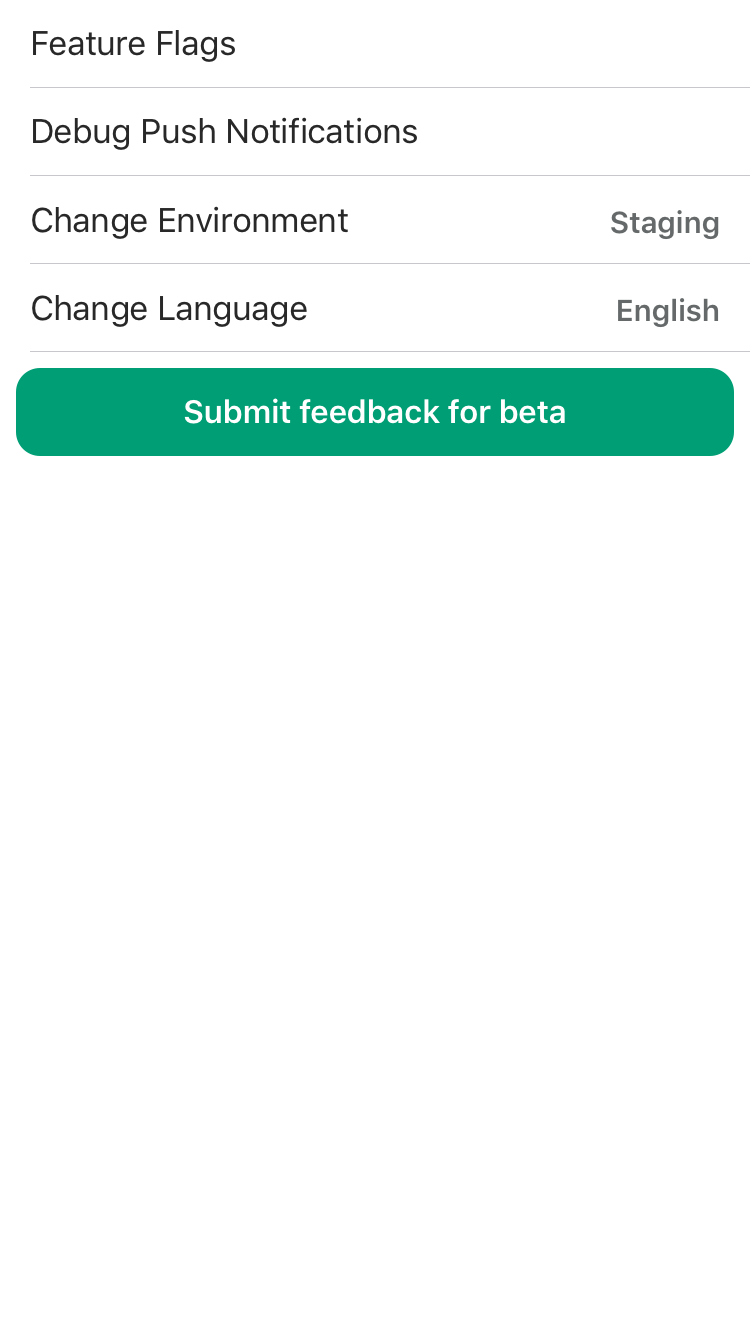
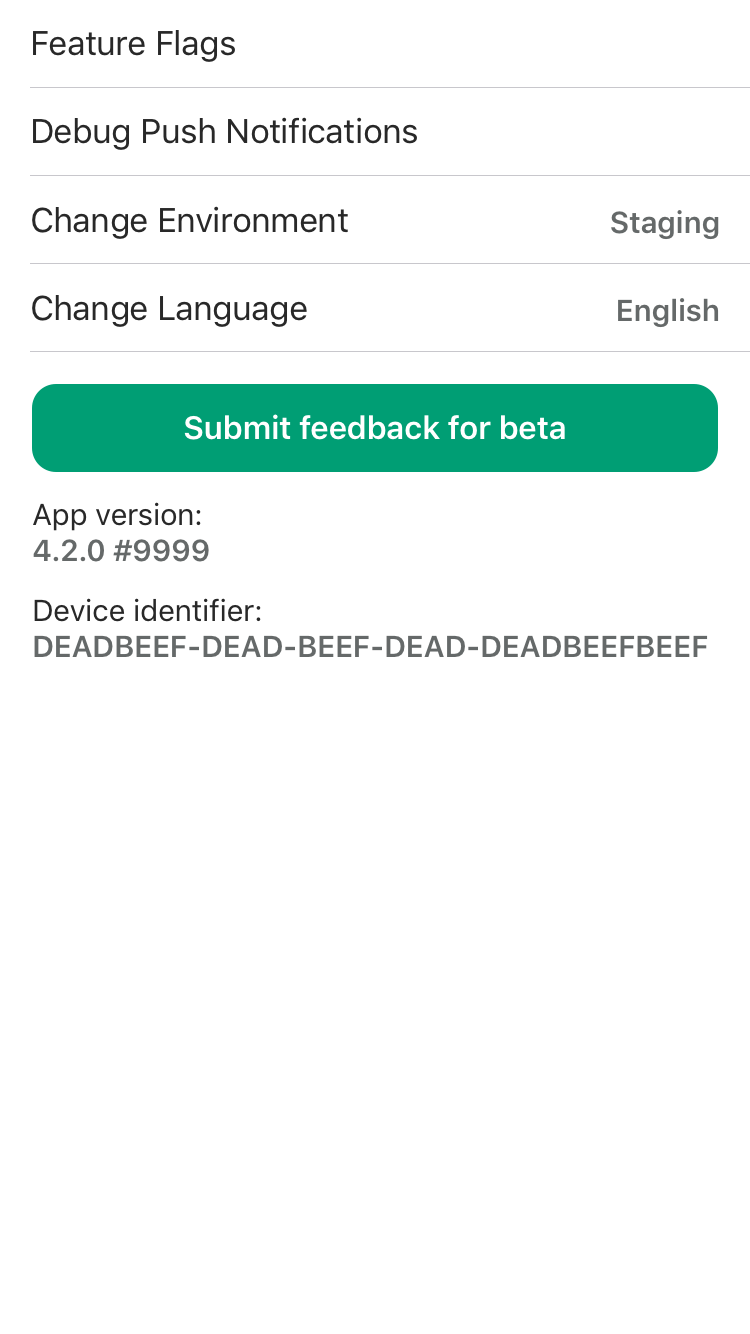
[NT-736] Debug tools deviceIdentifier and appVersion (#1049)

Changed region(s): [[0.0, 0.2766, 0.9813, 0.4918]]

diff --git a/Kickstarter-iOS/Views/BetaToolsFooterView.swift b/Kickstarter-iOS/Views/BetaToolsFooterView.swift
@@ -1,0 +1,167 @@
+import Library
+import Prelude
+import UIKit
+
+protocol BetaToolsFooterViewDelegate: AnyObject {
+  func betaToolsFooterViewDelegateDidTapFeedbackButton()
+}
+
+final class BetaToolsFooterView: UIView {
+  // MARK: - Properties
+
+  private let appVersionDetailLabel: UILabel = { UILabel(frame: .zero) }()
+  private let appVersionStackView: UIStackView = { UIStackView(frame: .zero) }()
+  private let appVersionTitleLabel: UILabel = { UILabel(frame: .zero) }()
+  private let betaFeedbackButton = UIButton(type: .custom)
+  private let deviceIdentifierDetailLabel: UILabel = { UILabel(frame: .zero) }()
+  private let deviceIdentifierStackView: UIStackView = { UIStackView(frame: .zero) }()
+  private let deviceIdentifierTitleLabel: UILabel = { UILabel(frame: .zero) }()
+  private let rootStackView: UIStackView = { UIStackView(frame: .zero) }()
+
+  internal weak var delegate: BetaToolsFooterViewDelegate?
+
+  override init(frame: CGRect) {
+    super.init(frame: frame)
+
+    self.configureViews()
+    self.bindStyles()
+    self.setupConstraints()
+
+    self.betaFeedbackButton.addTarget(
+      self, action: #selector(self.betaFeedbackButtonTapped),
+      for: .touchUpInside
+    )
+  }
+
+  required init?(coder _: NSCoder) {
+    fatalError("init(coder:) has not been implemented")
+  }
+
+  // MARK: - Configuration
+
+  private func configureViews() {
+    _ = (self.rootStackView, self)
+      |> ksr_addSubviewToParent()
+      |> ksr_constrainViewToMarginsInParent()
+
+    _ = ([self.appVersionTitleLabel, self.appVersionDetailLabel], self.appVersionStackView)
+      |> ksr_addArrangedSubviewsToStackView()
+
+    _ = ([self.deviceIdentifierTitleLabel, self.deviceIdentifierDetailLabel], self.deviceIdentifierStackView)
+      |> ksr_addArrangedSubviewsToStackView()
+
+    _ = (
+      [self.betaFeedbackButton, self.appVersionStackView, self.deviceIdentifierStackView],
+      self.rootStackView
+    )
+      |> ksr_addArrangedSubviewsToStackView()
+  }
+
+  private func setupConstraints() {
+    NSLayoutConstraint.activate([
+      self.betaFeedbackButton.heightAnchor
+        .constraint(greaterThanOrEqualToConstant: Styles.minTouchSize.height)
+        |> \.priority .~ .defaultHigh
+    ])
+  }
+
+  // MARK: - Styles
+
+  override func bindStyles() {
+    super.bindStyles()
+
+    _ = self.appVersionDetailLabel
+      |> appVersionDetailLabelStyle
+
+    _ = self.appVersionStackView
+      |> appVersionStackViewStyle
+
+    _ = self.appVersionTitleLabel
+      |> appVersionTitleLabelStyle
+
+    _ = self.betaFeedbackButton
+      |> betaFeedbackButtonStyle
+
+    _ = self.deviceIdentifierDetailLabel
+      |> deviceIdentifierDetailLabelStyle
+
+    _ = self.deviceIdentifierStackView
+      |> deviceIdentifierStackViewStyle
+
+    _ = self.deviceIdentifierTitleLabel
+      |> deviceIdentifierTitleLabelStyle
+
+    _ = self.rootStackView
+      |> rootStackViewStyle
+  }
+
+  // MARK: - Selectors
+
+  @objc private func betaFeedbackButtonTapped() {
+    self.delegate?.betaToolsFooterViewDelegateDidTapFeedbackButton()
+  }
+}
+
+// MARK: - Styles
+
+private let appVersionDetailLabelStyle: LabelStyle = { label in
+  label
+    |> baseDetailLabelStyle
+    |> \.text .~ AppEnvironment.current.mainBundle.appVersionString
+}
+
+private let appVersionStackViewStyle: StackViewStyle = { stackView in
+  stackView
+    |> verticalStackViewStyle
+}
+
+private let appVersionTitleLabelStyle: LabelStyle = { label in
+  label
+    |> baseTitleLabelStyle
+    |> \.text .~ (Strings.App_version() + ": ")
+}
+
+private let betaFeedbackButtonStyle: ButtonStyle = { button in
+  button
+    |> greenButtonStyle
+    |> UIButton.lens.title(for: .normal) .~ "Submit feedback for beta"
+}
+
+private let deviceIdentifierDetailLabelStyle: LabelStyle = { label in
+  label
+    |> baseDetailLabelStyle
+    |> \.minimumScaleFactor .~ 0.5
+    |> \.text .~ AppEnvironment.current.device.identifierForVendor?.uuidString
+}
+
+private let deviceIdentifierStackViewStyle: StackViewStyle = { stackView in
+  stackView
+    |> verticalStackViewStyle
+}
+
+private let deviceIdentifierTitleLabelStyle: LabelStyle = { label in
+  label
+    |> baseTitleLabelStyle
+    |> \.text .~ "Device identifier: "
+}
+
+private let rootStackViewStyle: StackViewStyle = { stackView in
+  stackView
+    |> verticalStackViewStyle
+    |> \.spacing .~ Styles.grid(2)
+}
+
+private let baseDetailLabelStyle: LabelStyle = { label in
+  label
+    |> \.font .~ .ksr_headline(size: 15)
+    |> \.textColor .~ .ksr_text_dark_grey_500
+    |> \.lineBreakMode .~ .byWordWrapping
+    |> \.textAlignment .~ .left
+}
+
+private let baseTitleLabelStyle: LabelStyle = { label in
+  label
+    |> \.textColor .~ .ksr_soft_black
+    |> \.font .~ .ksr_subhead()
+    |> \.textAlignment .~ .left
+}

diff --git a/Kickstarter-iOS/Views/Controllers/BetaToolsViewController.swift b/Kickstarter-iOS/Views/Controllers/BetaToolsViewController.swift
@@ -8,7 +8,6 @@ import UIKit
 internal final class BetaToolsViewController: UITableViewController {
   // MARK: - Properties
 
-  private let betaFeedbackButton = UIButton(type: .custom)
   private var betaToolsData: BetaToolsData?
   private let helpViewModel: HelpViewModelType = HelpViewModel()
   private let viewModel: BetaToolsViewModelType = BetaToolsViewModel()
@@ -27,10 +26,6 @@ internal final class BetaToolsViewController: UITableViewController {
       |> \.dataSource .~ self
 
     self.configureFooterView()
-    self.betaFeedbackButton.addTarget(
-      self, action: #selector(self.betaFeedbackButtonTapped),
-      for: .touchUpInside
-    )
 
     let doneButton = UIBarButtonItem(
       title: Strings.Done(), style: .done, target: self,
@@ -52,10 +47,6 @@ internal final class BetaToolsViewController: UITableViewController {
   override func bindStyles() {
     _ = self.navigationController
       ?|> UINavigationController.lens.isNavigationBarHidden .~ false
-
-    _ = self.betaFeedbackButton
-      |> greenButtonStyle
-      |> UIButton.lens.title(for: .normal) .~ "Submit feedback for beta"
   }
 
   override func bindViewModel() {
@@ -124,10 +115,6 @@ internal final class BetaToolsViewController: UITableViewController {
 
   // MARK: - Selectors
 
-  @objc private func betaFeedbackButtonTapped() {
-    self.viewModel.inputs.betaFeedbackButtonTapped(canSendMail: MFMailComposeViewController.canSendMail())
-  }
-
   @objc private func doneButtonTapped() {
     self.navigationController?.dismiss(animated: true)
   }
@@ -137,27 +124,26 @@ internal final class BetaToolsViewController: UITableViewController {
   private func configureFooterView() {
     let containerView = UIView(frame: .zero)
 
+    let betaToolsFooterView = BetaToolsFooterView(frame: .zero)
+      |> \.delegate .~ self
+
     /* Silences autolayout warnings between conflicting table view frame-based sizing and our
      tableFooterView's autolayout constraints
      */
     let priority = UILayoutPriority(rawValue: 999)
 
-    _ = (self.betaFeedbackButton, containerView)
+    _ = (betaToolsFooterView, containerView)
       |> ksr_addSubviewToParent()
       |> ksr_constrainViewToMarginsInParent(priority: priority)
 
     _ = self.tableView
       |> \.tableFooterView .~ containerView
 
-    let widthConstraint = self.betaFeedbackButton.widthAnchor
-      .constraint(equalTo: self.tableView.layoutMarginsGuide.widthAnchor)
-      |> \.priority .~ .defaultHigh
-
-    let heightConstraint = self.betaFeedbackButton.heightAnchor
-      .constraint(greaterThanOrEqualToConstant: Styles.minTouchSize.height)
-      |> \.priority .~ .defaultHigh
-
-    NSLayoutConstraint.activate([widthConstraint, heightConstraint])
+    NSLayoutConstraint.activate([
+      betaToolsFooterView.widthAnchor
+        .constraint(equalTo: self.tableView.layoutMarginsGuide.widthAnchor)
+        |> \.priority .~ .defaultHigh
+    ])
   }
 
   private func goToDebugPushNotifications() {
@@ -309,6 +295,14 @@ extension BetaToolsViewController {
     self.viewModel.inputs.didSelectBetaToolsRow(row)
 
     tableView.deselectRow(at: indexPath, animated: true)
+  }
+}
+
+// MARK: - BetaToolsFooterViewDelegate
+
+extension BetaToolsViewController: BetaToolsFooterViewDelegate {
+  func betaToolsFooterViewDelegateDidTapFeedbackButton() {
+    self.viewModel.inputs.betaFeedbackButtonTapped(canSendMail: MFMailComposeViewController.canSendMail())
   }
 }
 
